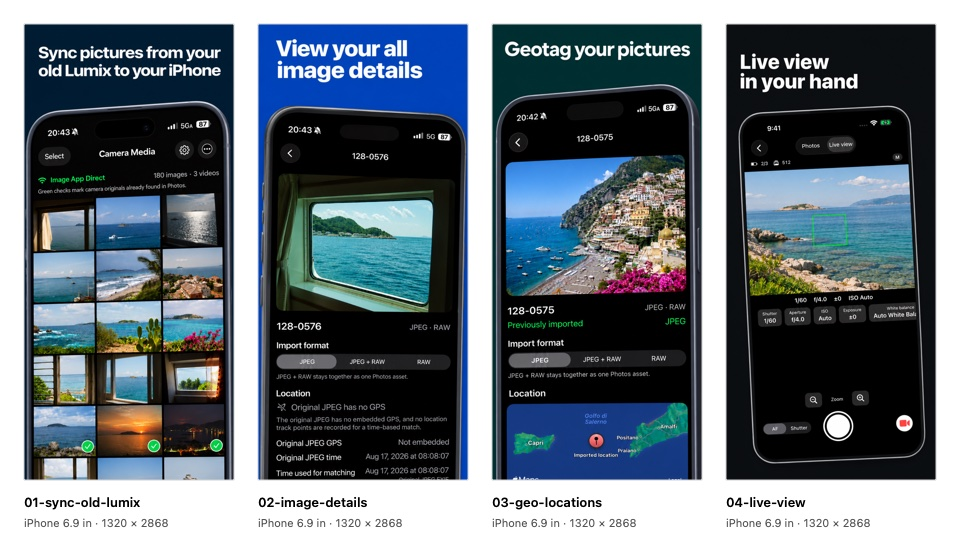
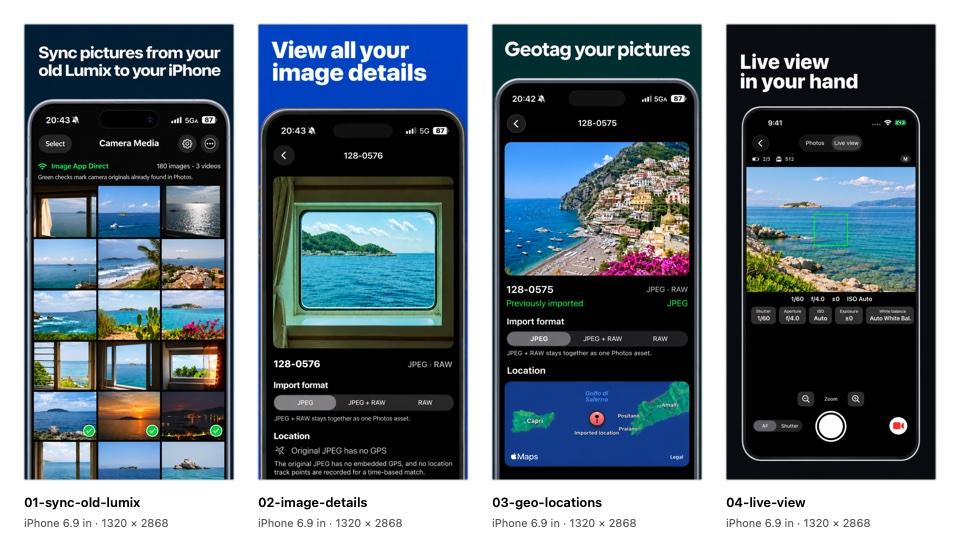
Use the front-facing App Store screenshots
Replaces the four iPhone 6.9-inch screenshots with the simplified,
front-facing versions; the second headline now reads "View all your image
details". All four are 1320 x 2868 opaque PNGs; validation.txt and the
contact sheet are regenerated.

diff --git a/AppStore/Screenshots/iphone/README.md b/AppStore/Screenshots/iphone/README.md
@@ -7,12 +7,12 @@ Upload order:
 | # | File | Headline |
 |---|---|---|
 | 1 | `en-US/iphone-6.9/01-sync-old-lumix-en-us-iphone-6.9-1320x2868.png` | Sync pictures from your old Lumix to your iPhone |
-| 2 | `en-US/iphone-6.9/02-image-details-en-us-iphone-6.9-1320x2868.png` | View your all image details |
+| 2 | `en-US/iphone-6.9/02-image-details-en-us-iphone-6.9-1320x2868.png` | View all your image details |
 | 3 | `en-US/iphone-6.9/03-geo-locations-en-us-iphone-6.9-1320x2868.png` | Geotag your pictures |
 | 4 | `en-US/iphone-6.9/04-live-view-en-us-iphone-6.9-1320x2868.png` | Live view in your hand |
 
 The four PNGs are 1320 x 2868 and opaque. See `validation.txt` for the export checks (size, opacity, SHA-256) and `contact-sheet.jpg` for visual review.
 
-They replace the August set on the unmerged `agent/app-store-screenshots-next-version` branch, which still showed the old "GM1 Sync" name. Screenshot 1 shows the camera gallery before the job-first home screen: its "Image App Direct" label and toolbar predate the Photos / Live view switch.
+This is the simplified, front-facing version from the `lumix-appstore-next-version` workspace (`AppStore/Screenshots/next-version/simplified/front-facing`). It replaces the August set on the unmerged `agent/app-store-screenshots-next-version` branch, which still showed the old "GM1 Sync" name. Screenshot 1 shows the camera gallery before the job-first home screen: its "Image App Direct" label and toolbar predate the Photos / Live view switch.
 
 Upload these manually when preparing the App Store version; ordinary PR and push CI should not upload App Store media.
